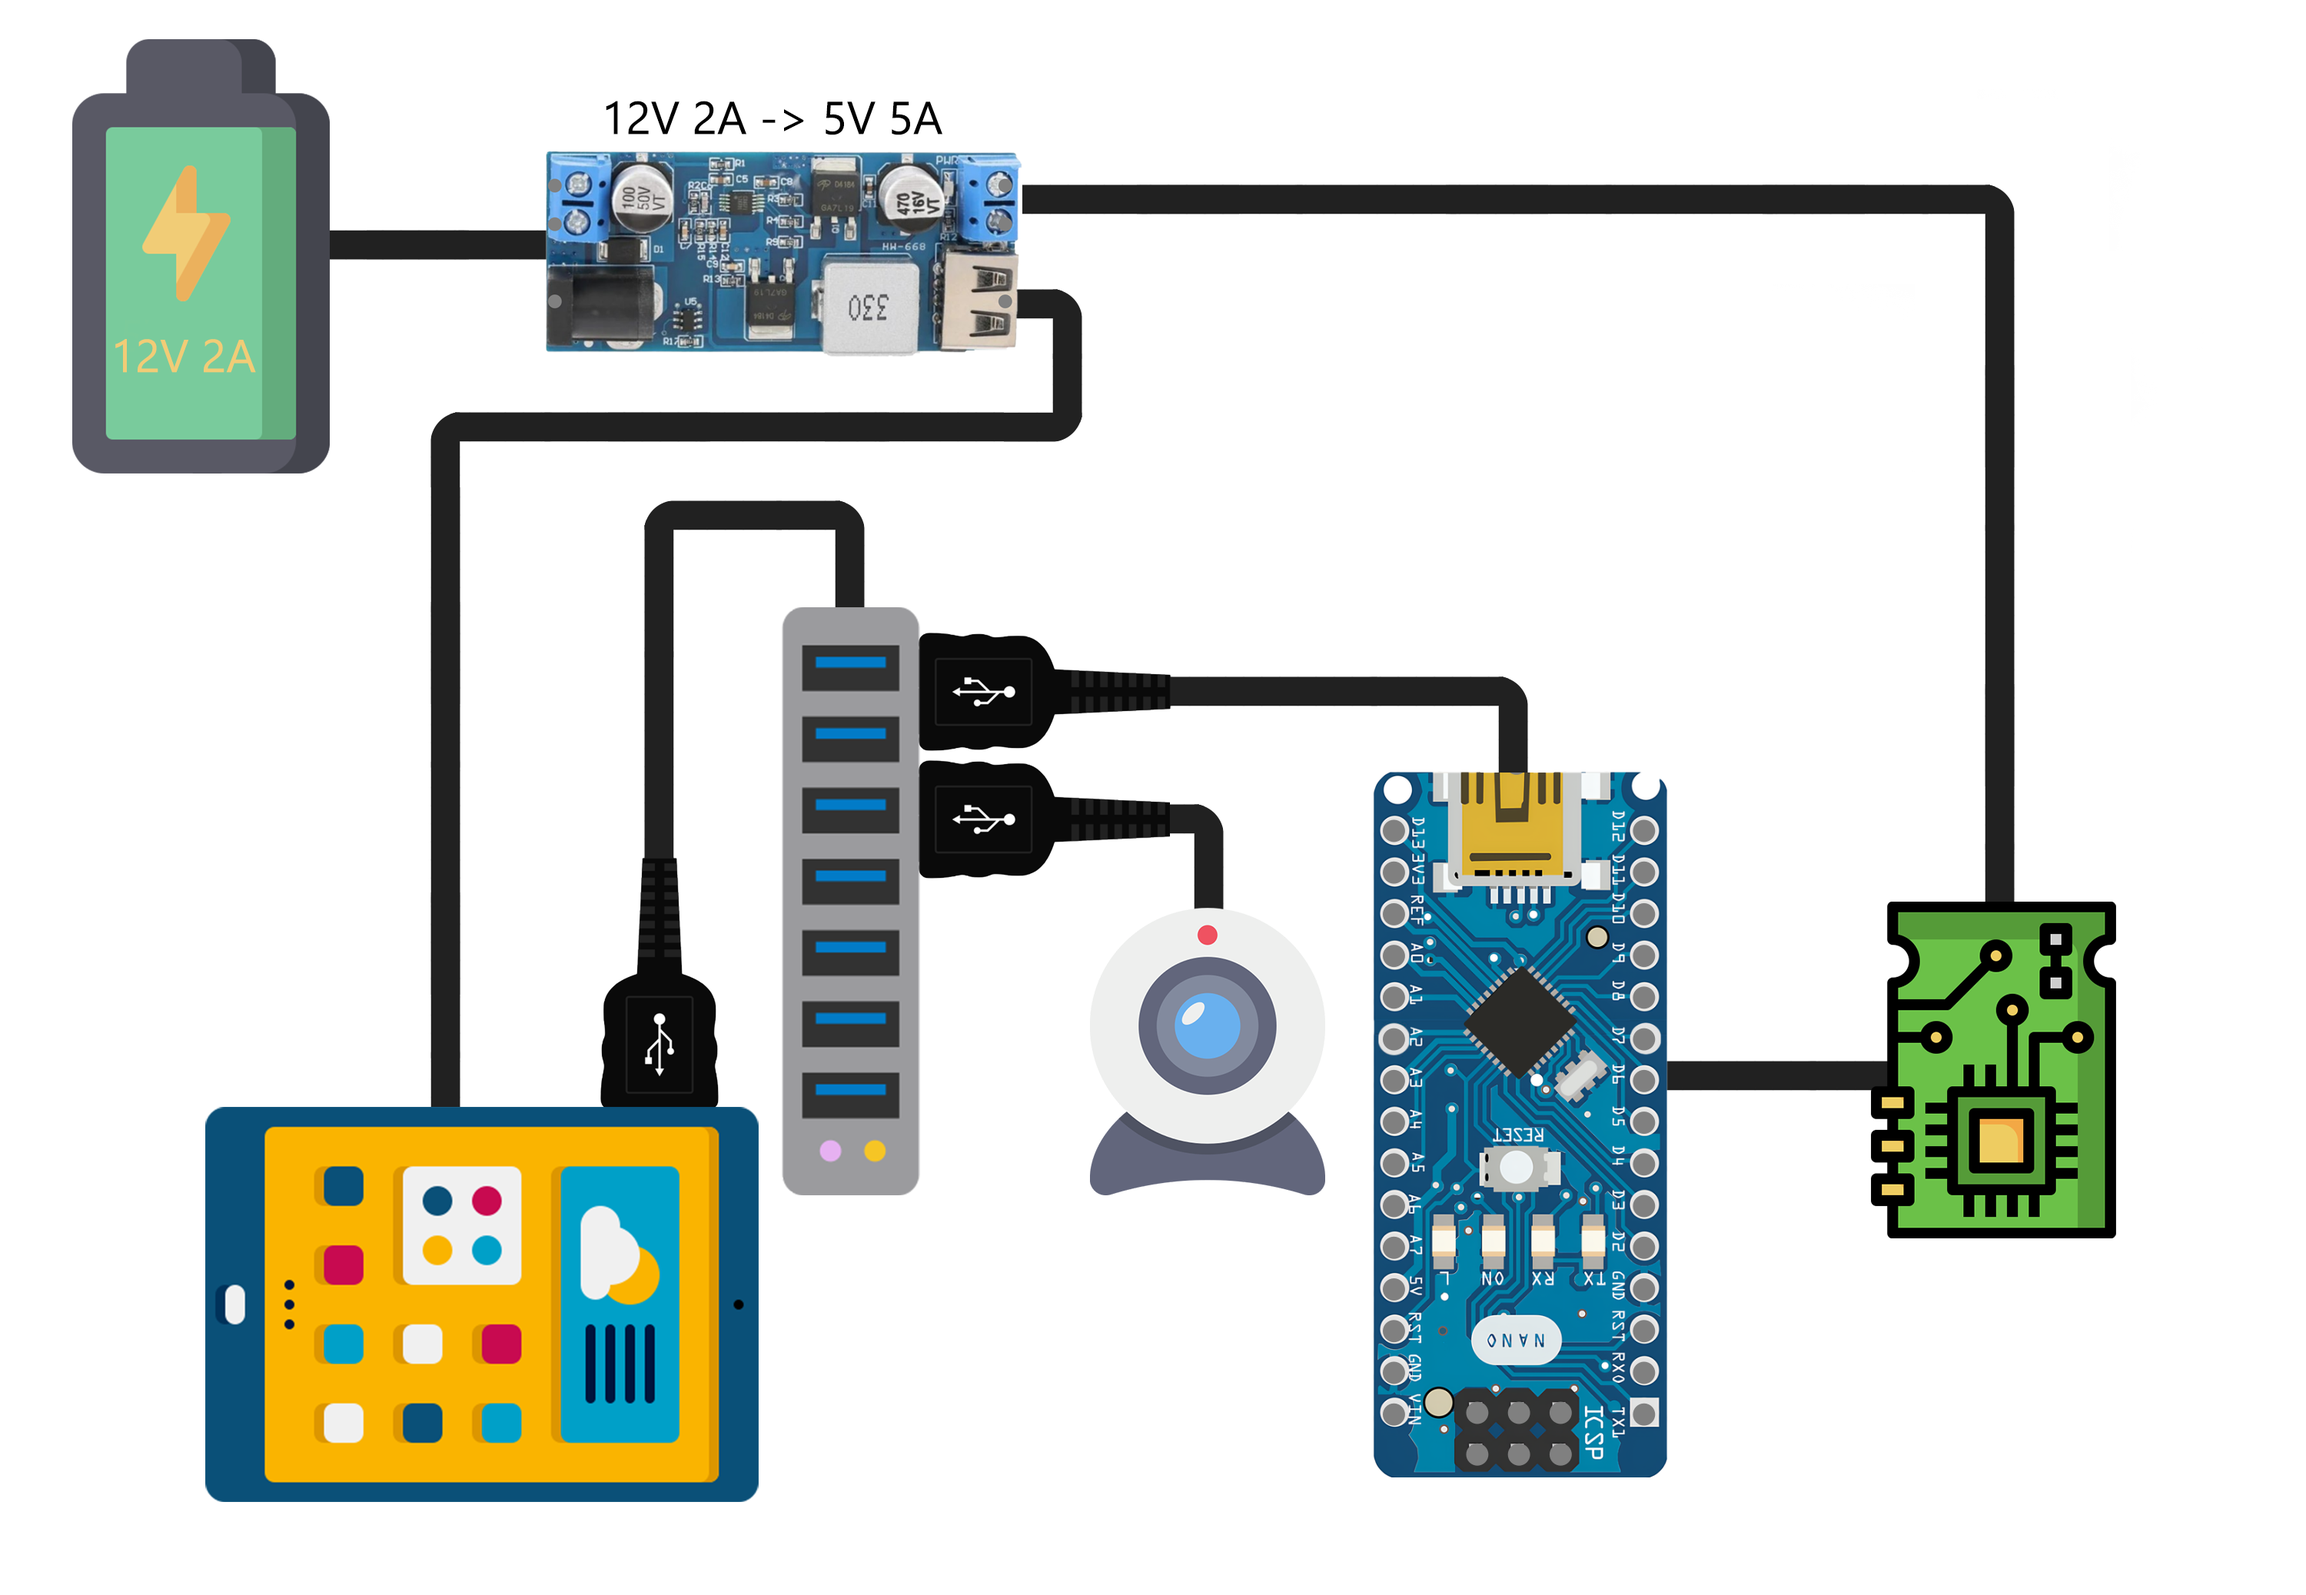
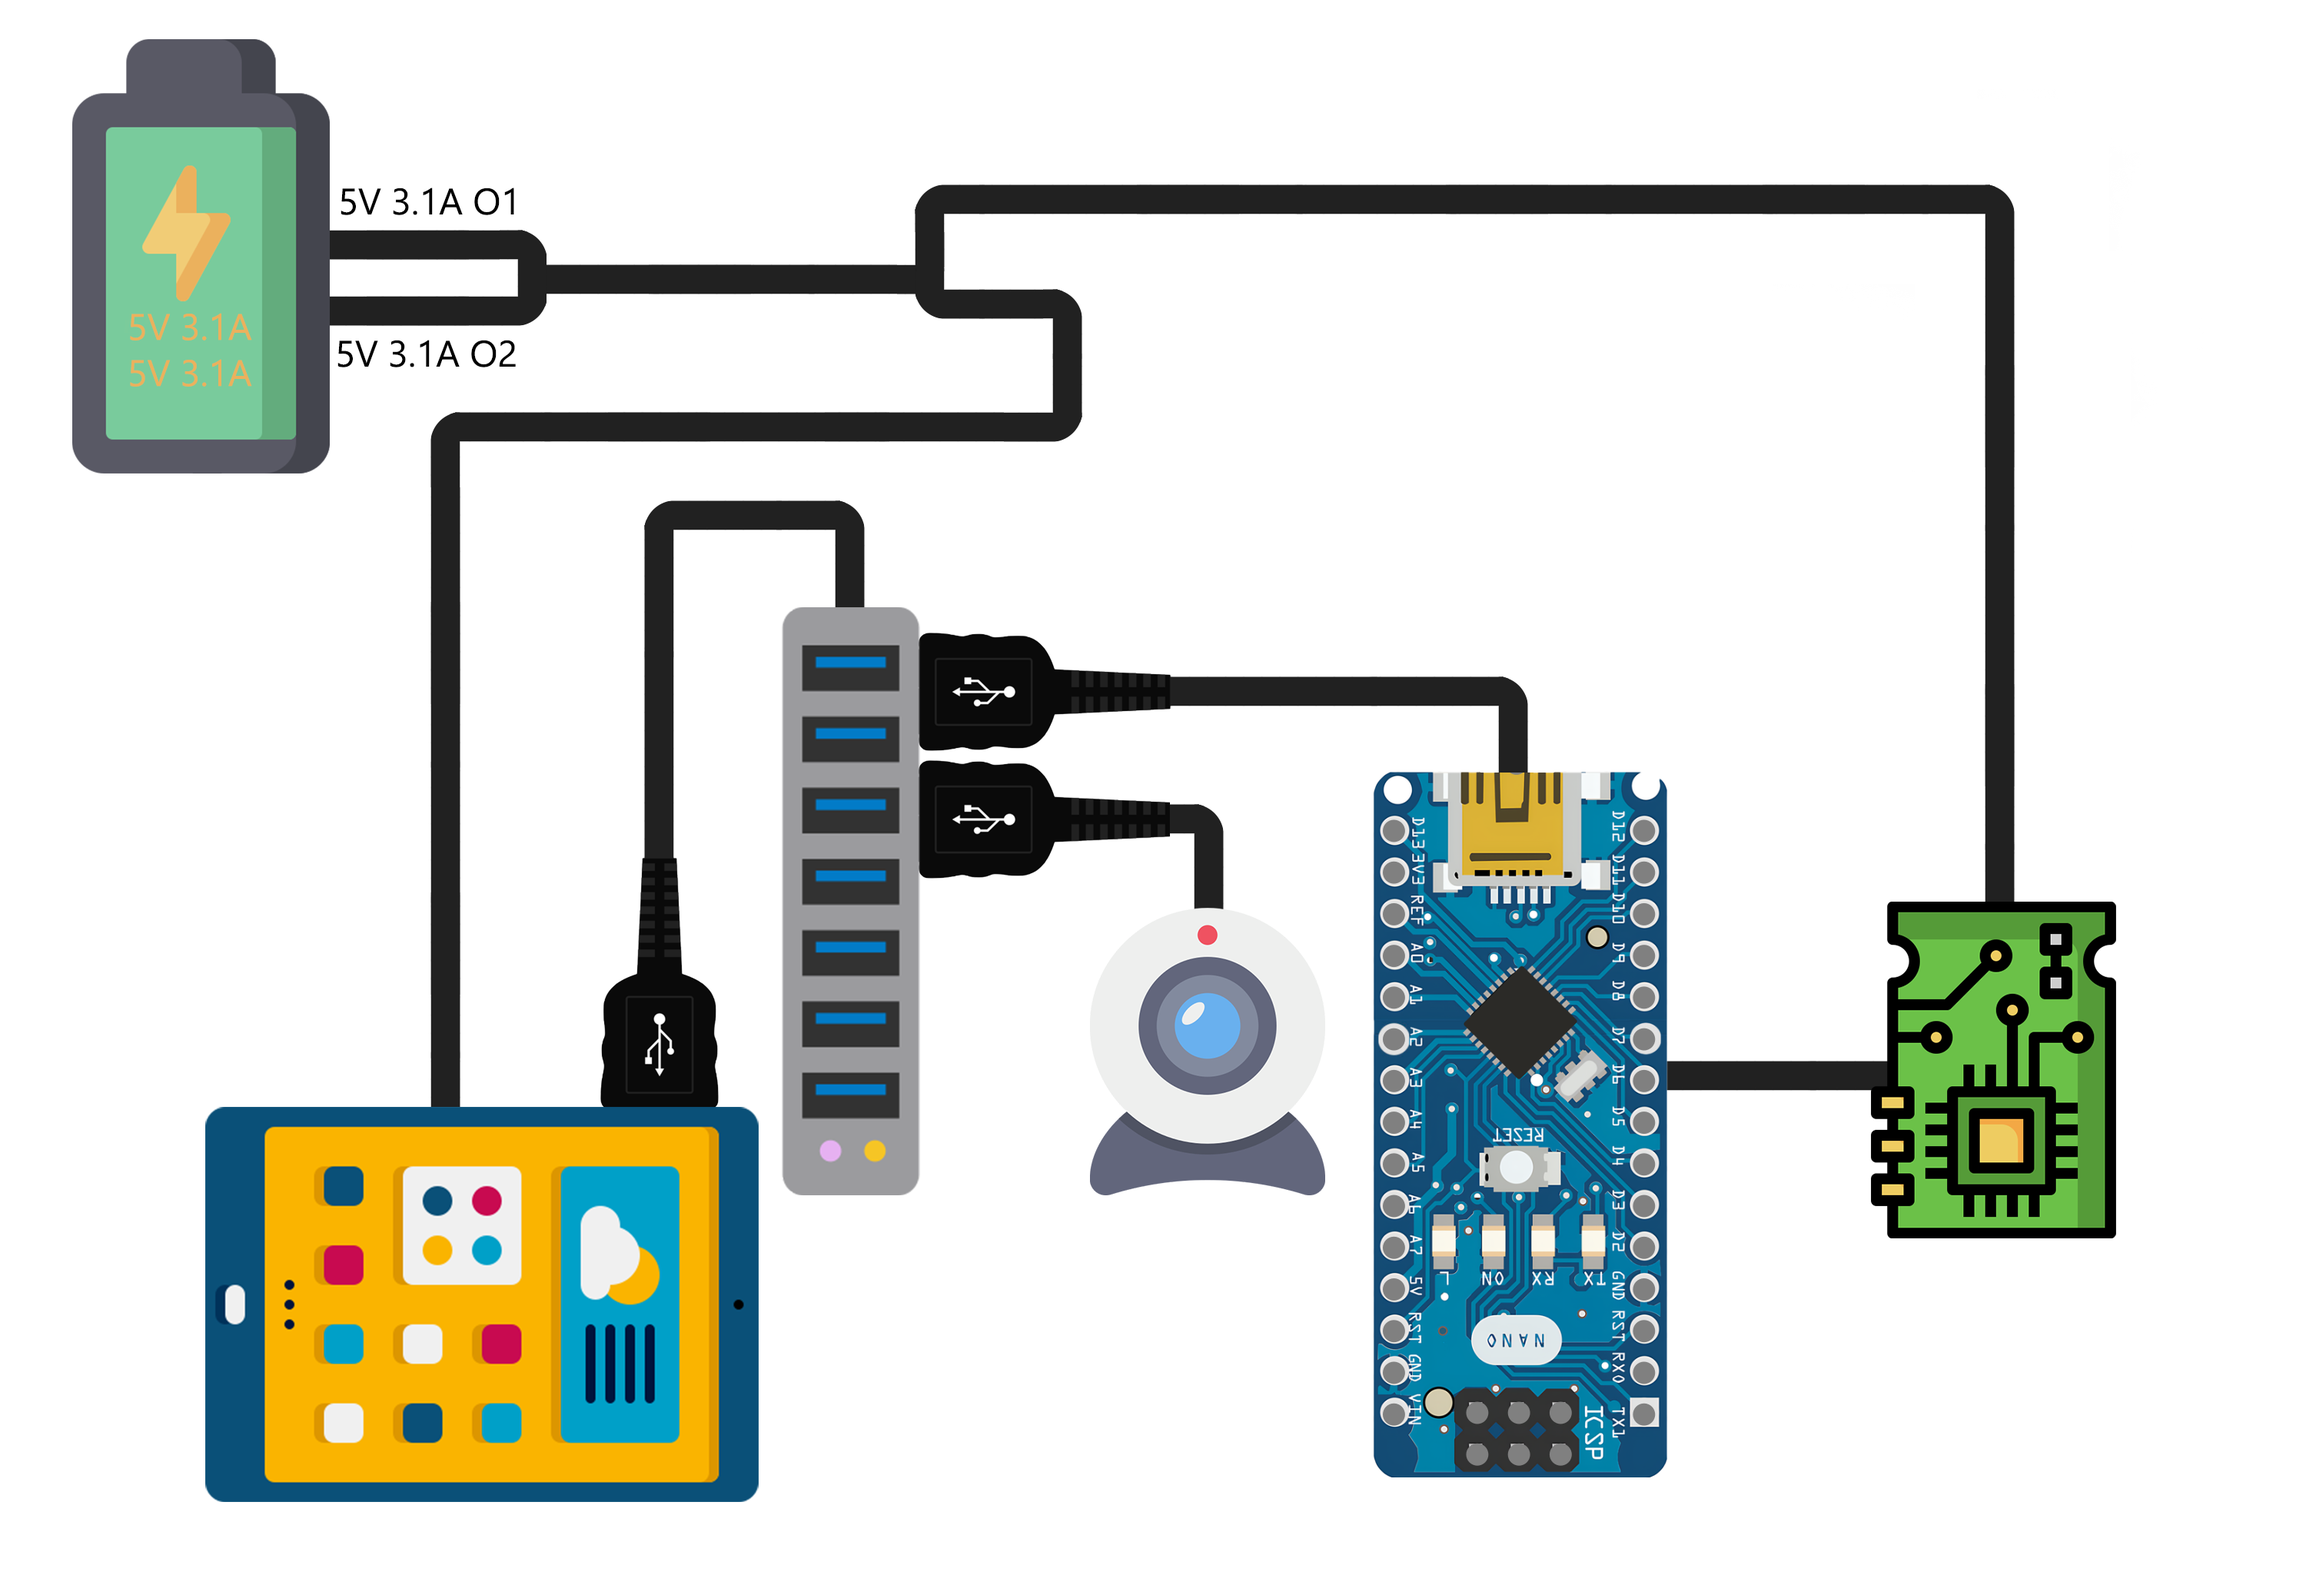
Fixed charging setup

Changed region(s): [[0.062, 0.0617, 0.465, 0.2467]]

diff --git a/guide/it/README.md b/guide/it/README.md
@@ -117,9 +117,10 @@ Questi miglioramenti sono opzionali, ma consentono una migliore gestione dei cav
 <img src="../../other/images/23.jpg" alt="Ventitré" width="350">
 <img src="../../other/images/24.jpg" alt="Ventiquattro" width="350">
 
-* Il mio tablet non riesce a stare acceso per tutta la durata di una sessione, quindi ha bisogno di essere caricato. Per non aggiungere altri cavi ho deciso di cambiare l'alimentazione in 12V 2A e utilizzare uno [step down](https://www.amazon.it/dp/B07RGB2HB6?ref=ppx_yo2ov_dt_b_fed_asin_title) a 5V 5A e poter alimentare sia il 28byj-48 che il tablet.
+* Il mio tablet non riesce a rimanere acceso per tutta la sessione, quindi deve essere caricato. Per evitare di aggiungere altri cavi, ho deciso di cambiare l'alimentatore utilizzando un [caricatore multi-USB da 5V con due uscite da 5V e 3,1A](https://www.amazon.it/dp/B0D73DZ6QT?ref=ppx_yo2ov_dt_b_fed_asin_title). Ho saldato insieme le due uscite USB per alimentare sia il motore 28BYJ-48 che il tablet con un unico cavo.
 * Circuito generale aggiornato:
 <img src="../../other/images/25.png" alt="Twentyfive" width="350">
+Nota: Nel mio caso, il tablet aveva bisogno anche dei pin dati collegati, anche se il cavo è usato solo per la ricarica.
 * Per ottenere un aspetto frontale più pulito, ho anche aggiunto un connettore a 90 gradi all'hub USB-C e un altro connettore a 90 gradi per la porta di ricarica del tablet.
 <img src="../../other/images/26.jpg" alt="Twentyfive" width="350">
 <img src="../../other/images/27.jpg" alt="Twentyfive" width="350">

diff --git a/guide/en/README.md b/guide/en/README.md
@@ -117,9 +117,10 @@ This improvements are optional but allow for a better cable management and pract
 <img src="../../other/images/23.jpg" alt="Twentythree" width="350">
 <img src="../../other/images/24.jpg" alt="Twentyfour" width="350">
 
-* My tablet can't stay on for the whole session, so it needs to be charged. In order not to add more cables I decided to change the power supply to 12V 2A and use a [step down](https://www.amazon.it/dp/B07RGB2HB6?ref=ppx_yo2ov_dt_b_fed_asin_title) to 5V 5A and be able to power both the 28byj-48 and the tablet.
+* My tablet can't stay on for the entire session, so it needs to be charged. To avoid adding more cables, I decided to change the power supply by using a [multi-USB 5V charger with two outputs rated at 5V and 3.1A](https://www.amazon.it/dp/B0D73DZ6QT?ref=ppx_yo2ov_dt_b_fed_asin_title). I soldered the two USB outputs together to power both the 28BYJ-48 motor and the tablet with a single cable.
 * Updated general circuit:
 <img src="../../other/images/25.png" alt="Twentyfive" width="350">
+Note: In my case, the tablet also needed the data pins to be connected, even though the cable is only used for charging.
 
 * To achieve a cleaner front appearance, I also added a 90-degree connector to the USB-C hub and another 90-degree connector for the tablet's charging port.
 <img src="../../other/images/26.jpg" alt="Twentyfive" width="350">
